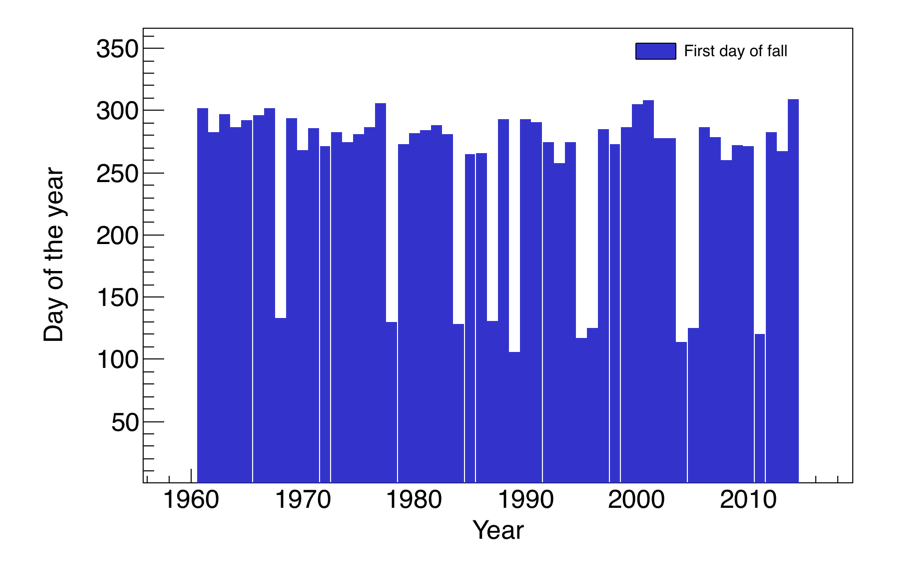
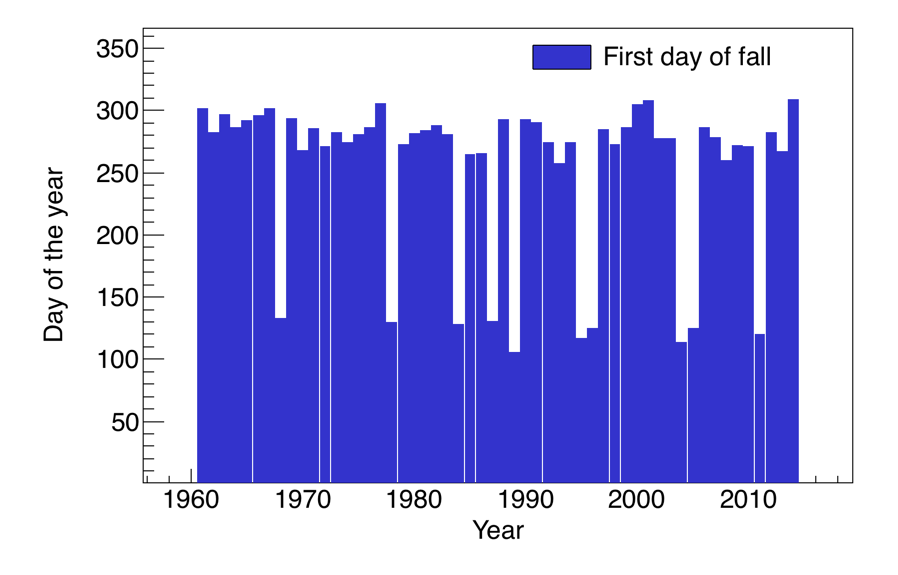
Improvements in plots

Changed region(s): [[0.5924, 0.0591, 0.8731, 0.1478]]

diff --git a/code/tempSeasons.cpp b/code/tempSeasons.cpp
@@ -397,9 +397,10 @@ void plotSeason(const vector <vector <int> > &beginDaySeason, string season){
     gSeason->Draw("AB");
     
     //legend
-    TLegend* leg = new TLegend(0.7, 0.89, 0.949, 0.93);
+    TLegend* leg = new TLegend(0.58, 0.87, 0.949, 0.93);
     leg->SetBorderSize(0);
     leg->AddEntry(gSeason, Form("First day of %s", season.c_str()), "f");
+    leg->SetTextSize(.05);
     leg->Draw();
     
     cSeason->SaveAs(Form("tempSeasonPlots/%sStart.png", season.c_str()));
@@ -424,19 +425,23 @@ void histogram(const vector <vector <int> > &beginDaySeason, string season){
     
     hist->SetFillColor(kBlue + 3);
     hist->Draw();
+    hist->GetXaxis()->CenterTitle();
+    hist->GetYaxis()->CenterTitle();
     
     //legend
     if (season == "fall") {
         //at different position for fall histogram
-        TLegend* leg = new TLegend(0.2, 0.89, 0.449, 0.93);
+        TLegend* leg = new TLegend(0.2, 0.87, 0.549, 0.93);
         leg->SetBorderSize(0);
         leg->AddEntry(hist, Form("First day of %s", season.c_str()), "l");
+        leg->SetTextSize(.05);
         leg->Draw();
     }
     else {
-        TLegend* leg = new TLegend(0.7, 0.89, 0.949, 0.93);
+        TLegend* leg = new TLegend(0.58, 0.87, 0.949, 0.93);
         leg->SetBorderSize(0);
         leg->AddEntry(hist, Form("First day of %s", season.c_str()), "l");
+        leg->SetTextSize(.05);
         leg->Draw();
     }
     

diff --git a/code/project.cpp b/code/project.cpp
@@ -8,10 +8,8 @@ void project() {
     t.startDaySeasons();
 	//t.tempEx();
 
-	//t.tempOnDay(7, 19); //Call some functions that you've implemented
-	//t.tempOnDayNumber(200);
-	//t.tempPerDay();
-	//t.hotCold("uppsala_tm_1722-2013.dat");
-	//t.hotCold("smhi-opendata_Lulea.csv");
-	//t.tempPerYear(2050);
+//	t.tempOnDay(7, 19);
+//	t.tempOnDayNumber(200);
+//	t.hotCold("uppsala_tm_1722-2013.dat");
+//	t.hotCold("smhi-opendata_Lulea.csv");
 }
